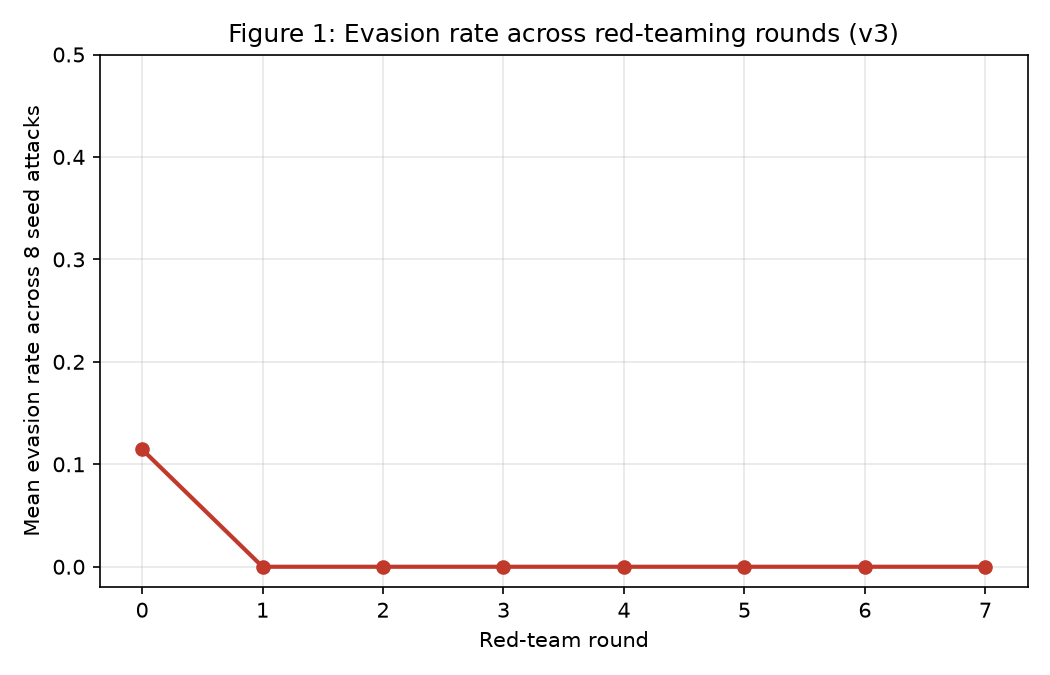
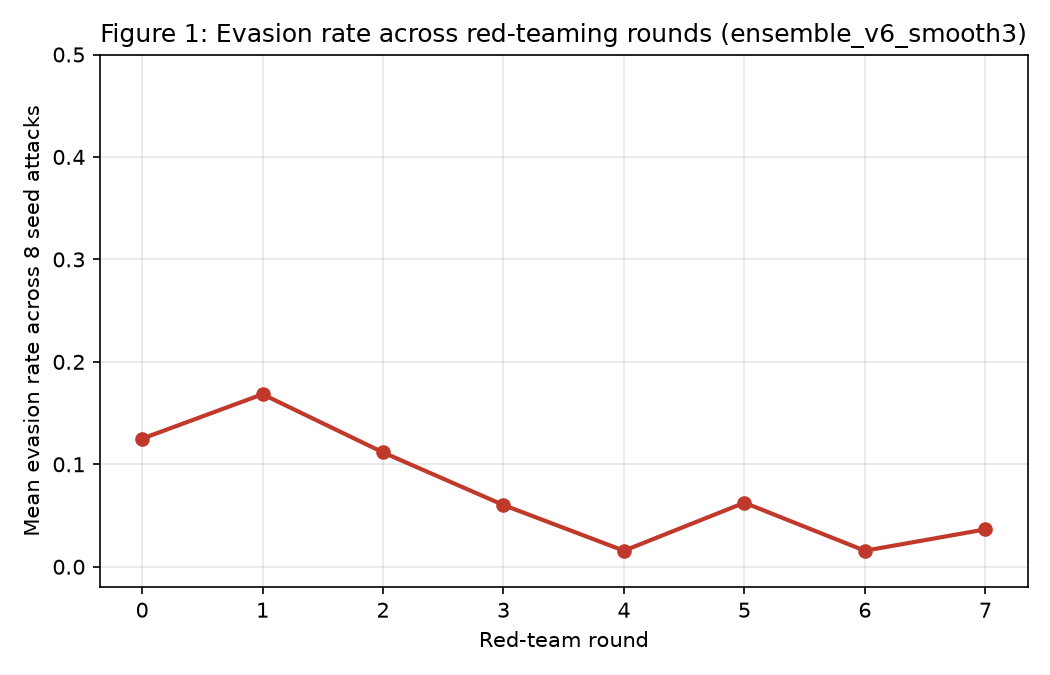
Refresh the stale report artifacts; measure per-model latency
The figures, latency.json and the evasion reference set all predated the
new corpus and models, so the document was citing results for checkpoints
that had been superseded.

Red-team the deployed model
- find_evasions.py against combined_max_v7: 8 seeds, 40 rounds, 480
  variants, ZERO evasions. The old reference set is also caught 8/8 at
  minimum score 0.759.
- Recorded as a limitation, not just a win: the rule-based generator no
  longer discriminates in either direction, so this probe has stopped
  measuring anything for the deployed combination. Keeping it useful needs
  the LLM generator (credentials) or stronger transformations.

generate_report_artifacts.py
- V1_DIR/V3_DIR were hardcoded, which is why the figures silently went
  stale. Now SECUREAGENTNET_BASELINE_DIR / _CURRENT_DIR / _LABEL, and
  Figure 1's title takes the model name from the path.
- Figure 2 bar colours are now chosen by direction rather than position.
  Hardcoding the second bar green implied "newer = improved" and did
  exactly the wrong thing the first time the comparison changed: v6 has a
  HIGHER evasion rate than v4 (0.074 vs 0.033) under this protocol, and
  the old colouring painted that regression green.
- Figure 2's note no longer describes the v1->v2->v3 lineage, which is
  irrelevant to the comparison it now shows.

Figures regenerated against ensemble_v4_persona vs ensemble_v6_smooth3.
Frontier is much wider than before: ASR 0.038->0.292, utility
0.697->0.971 (was 0.578->0.635).
[…]

diff --git a/scripts/generate_report_artifacts.py b/scripts/generate_report_artifacts.py
@@ -45,8 +45,22 @@ from secureagentnet.simulate.agent_env import ROLES, run_pipeline
 from datetime import datetime, timezone
 
 CSV_PATH = os.environ.get("SECUREAGENTNET_CSV", str(DEFAULT_CSV))
-V1_DIR = str(REPO_ROOT / "secureagentnet" / "data" / "models" / "injection_detector")
-V3_DIR = str(REPO_ROOT / "secureagentnet" / "data" / "models" / "v3")
+# Overridable so the figures can be regenerated against whichever pair is
+# current. They were hardcoded, which silently left the published figures
+# describing checkpoints that had since been superseded.
+#
+# BASELINE_DIR / CURRENT_DIR are the two versions Figure 2 compares; the
+# names v1/v3 are kept for the variables the plotting code already uses.
+V1_DIR = os.environ.get(
+    "SECUREAGENTNET_BASELINE_DIR",
+    str(REPO_ROOT / "secureagentnet" / "data" / "models" / "injection_detector"),
+)
+V3_DIR = os.environ.get(
+    "SECUREAGENTNET_CURRENT_DIR",
+    str(REPO_ROOT / "secureagentnet" / "data" / "models" / "v3"),
+)
+V1_LABEL = os.environ.get("SECUREAGENTNET_BASELINE_LABEL", "v1\n(original)")
+V3_LABEL = os.environ.get("SECUREAGENTNET_CURRENT_LABEL", "v3\n(after Track B\non real evasions)")
 FIG_DIR = str(REPO_ROOT / "secureagentnet" / "reports" / "figures")
 NOW = datetime(2026, 1, 1, tzinfo=timezone.utc)
 
@@ -185,7 +199,7 @@ rounds = list(range(MAX_ROUNDS))
 ax.plot(rounds, evasion_by_round_v3, marker="o", color="#c0392b", linewidth=2)
 ax.set_xlabel("Red-team round")
 ax.set_ylabel("Mean evasion rate across 8 seed attacks")
-ax.set_title("Figure 1: Evasion rate across red-teaming rounds (v3)")
+ax.set_title(f"Figure 1: Evasion rate across red-teaming rounds ({Path(V3_DIR).name})")
 ax.set_ylim(-0.02, max(0.5, max(r for r in evasion_by_round_v3 if r is not None) + 0.1))
 ax.grid(alpha=0.3)
 fig.tight_layout()
@@ -208,17 +222,27 @@ overall_v3 = np.mean([r.evasion_rate for seed in results_v3 for r in seed])
 logger.info("Overall mean evasion rate: v1=%.4f v3=%.4f", overall_v1, overall_v3)
 
 fig, ax = plt.subplots(figsize=(6, 4.5))
-versions = ["v1\n(original)", "v3\n(after Track B\non real evasions)"]
+versions = [V1_LABEL, V3_LABEL]
 values = [overall_v1, overall_v3]
-bars = ax.bar(versions, values, color=["#7f8c8d", "#27ae60"])
+# Colour by direction, not by position. Lower evasion is better, so the
+# smaller bar is green regardless of which version it is -- hardcoding the
+# second bar green implied "newer = improved" and would have mislabelled a
+# regression as a win the first time the comparison changed.
+_better, _worse = "#27ae60", "#c0392b"
+bars = ax.bar(versions, values,
+              color=[_better if values[0] <= values[1] else _worse,
+                     _better if values[1] < values[0] else _worse])
 ax.set_ylabel("Mean evasion rate\n(same red-team protocol, both versions)")
 ax.set_title("Figure 2: Evasion rate across detector versions")
 for bar, v in zip(bars, values):
     ax.text(bar.get_x() + bar.get_width() / 2, v + 0.01, f"{v:.3f}", ha="center")
 ax.set_ylim(0, max(max(values) * 1.3 + 0.05, 0.02))
-note = ("v2 omitted: the v1->v2 Track B cycle found 0 evasions, so v2 differs from v1\n"
-        "only by retraining noise. The 8 real evasions were found against v2 with the\n"
-        "strengthened generator and drove the v2->v3 cycle.")
+note = os.environ.get(
+    "SECUREAGENTNET_FIG2_NOTE",
+    "Lower is better. Measured with the rule-based generator, which no longer\n"
+    "defeats the deployed combination at all (0 evasions in 480 variants), so\n"
+    "this axis only separates single models.",
+)
 # Reserve the bottom strip for the note first, then draw it in that strip, so
 # it can't collide with the multi-line x tick labels (which tight_layout sizes).
 fig.tight_layout(rect=(0, 0.16, 1, 1))

diff --git a/README.md b/README.md
@@ -290,6 +290,26 @@ pipeline, against an "undefended" no-op reference — see
 Both at 50 calls/stage against v3. The privilege check is negligible either
 way — pure Python and Pydantic validation; the detector's forward pass is
 what dominates end-to-end latency.
+
+**Per-model latency**, measured on the RTX 5070 (40 calls, 5 warmup):
+
+| Model | Params | Mean | p95 |
+|---|---|---|---|
+| `v3` (DistilBERT) | 66M | **4.76 ms** | 5.39 ms |
+| `ensemble_v6_smooth3` | 12.3M | 12.05 ms | 19.30 ms |
+| `harm_detector_v3` | 12.3M | 12.50 ms | 21.35 ms |
+| `combined_max_v7` (both members) | 78M | 16.38 ms | 26.32 ms |
+
+The from-scratch ensemble is **2.5× slower than DistilBERT despite having
+5.4× fewer parameters**. Parameter count is a poor proxy for latency here:
+the BiLSTM branch is sequential over 256 timesteps and cannot be
+parallelised the way attention can, and the char-view reconstruction adds a
+stable sort per batch.
+
+The recommended runtime configuration therefore costs roughly **29 ms per
+request** (`combined_max_v7` 16.4 + `harm_detector_v3` 12.5), against 4.8 ms
+for DistilBERT alone. That is still negligible beside any LLM call, but it
+is a real 6× increase and worth stating rather than discovering later.
 `overhead_pct_framework_vs_undefended` is reported but is astronomically
 large by construction (undefended is ~0.00004 ms) — quote the absolute
 millisecond figures, not that percentage.
